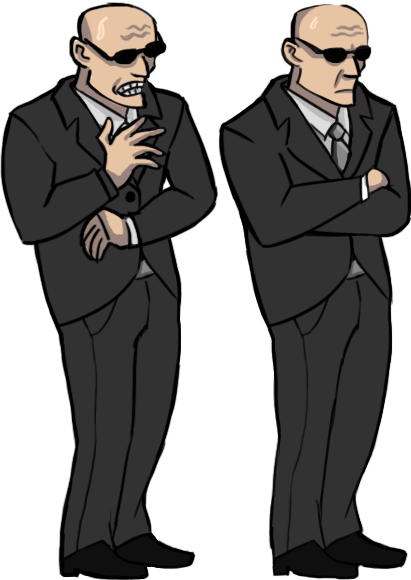
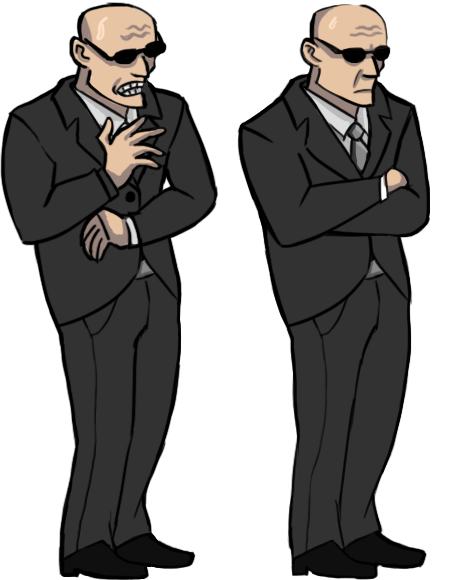
animations, agent and bigger game

diff --git a/src/js/States/game.js b/src/js/States/game.js
@@ -10,8 +10,9 @@ Game.prototype = {
     playerWon = false;
 
     this.background = game.add.sprite(0, 0, 'background');
+    this.background.scale.setTo(1280/this.background.width, 720/this.background.height);
 
-    this.eel = game.add.sprite(400, 120, 'eel');
+    this.eel = game.add.sprite(640, 120, 'eel');
     this.eel.scale.setTo(0.3, 0.3);
     this.eel.anchor.setTo(0.5, 0.5);
     this.prisonPosition = 2;
@@ -45,14 +46,10 @@ Game.prototype = {
     for (var i = 0; i <= 4; i++) {
       if (this.characters[i].name != this.guilty.name) {
         this.characters[i].sounds.pop();
+        this.characters[i].sprite.x = +640 + (i)*640 - this.prisonPosition * 640;
       }
     }
     //console.log(this.characters);
-
-    //scales
-    // this.lightBlue.scale.setTo(0.5, 0.5);
-    // this.darkBlue.scale.setTo(0.5, 0.5);
-    // this.green.scale.setTo(0.5, 0.5);
 
     //buttons
     this.shock = game.add.button(game.world.centerX, 550, 'shock', this.dealDamage, this);
@@ -90,12 +87,12 @@ Game.prototype = {
 
   update: function() {
     for(var i = 0; i <= 4; i++) {
-        this.characters[i].sprite.x = +400 + (i)*400 - this.prisonPosition * 400;
+        //this.characters[i].sprite.x = +400 + (i)*400 - this.prisonPosition * 400;
+        game.add.tween(this.characters[i].sprite).to({ x: 640 + (i)*640 - this.prisonPosition * 640 }, 50, Phaser.Easing.Linear.InOut, true, 0.1, 1000, true);
     }
-    //this.eel.x = 120 + this.prisonPosition * 140;
 
     if (this.enterKey.isDown) {
-      //game.state.start("Victory");
+      this.selectTarget();
     }
 
   },
@@ -115,6 +112,8 @@ Game.prototype = {
     //console.log(s);
     game.sound.play(s);
     console.log("deal damage to:" + this.characters[this.prisonPosition].name);
+    //this.agent.animations.play('shock', 5, false);
+    this.characters[this.prisonPosition].sprite.play('shock', 5, false);
   },
 
   shuffle : function(array) {
@@ -122,7 +121,6 @@ Game.prototype = {
     while (0 !== currentIndex) {
       randomIndex = Math.floor(Math.random() * currentIndex);
       currentIndex -= 1;
-
       temporaryValue = array[currentIndex];
       array[currentIndex] = array[randomIndex];
       array[randomIndex] = temporaryValue;

diff --git a/src/js/Objects/character.js b/src/js/Objects/character.js
@@ -1,10 +1,14 @@
 function Character(id) {
     switch(id) {
       case 0:
-        this.name = 'lightBlue';
+        this.name = 'agent';
         this.maxHealth = 10;
         this.sounds = ['a-01', 'a-02', 'a-03', 'a-04'];
-        this.sprite = game.add.sprite(-1000,-1000, 'lightBlue');
+        //this.sprite = game.add.sprite(-1000,-1000, 'lightBlue');
+        this.sprite = game.add.sprite(640, 300, 'agent');
+        this.sprite.animations.add('shock');
+        this.sprite.animations.play('shock', 1, false);
+
         break;
       case 1:
         this.name = 'darkBlue';
@@ -46,6 +50,6 @@ function Character(id) {
         console.log("ya u don fucked up");
     }
     this.health = this.maxHealth;
-    this.sprite.scale.setTo(1);
+    this.sprite.scale.setTo(0.5);
     this.sprite.anchor.setTo(0.5);
 }

diff --git a/src/js/States/loading.js b/src/js/States/loading.js
@@ -13,7 +13,7 @@ Loading.prototype = {
 
     loadImages: function () {
         // Backgrounds
-        game.load.image('background', 'content/img/backgrounds/vesitausta.png');
+        game.load.image('background', 'content/img/backgrounds/uusivesitausta.png');
         game.load.image("winscreen", "content/winscreen.png");
         game.load.image("losescreen", "content/ulose.png");
         game.load.image("menuscreen", "content/menu.png");
@@ -44,6 +44,7 @@ Loading.prototype = {
 
     loadSpritesheets: function() {
         game.load.spritesheet("playermini", "content/sprite.png", 150, 150, 3);
+        game.load.spritesheet("agent", "content/img/characters/agent01.png", 225, 580, 2);
     },
 
     loadAudio: function() {

diff --git a/src/index.html b/src/index.html
@@ -14,7 +14,7 @@
         <br />
         <br />
         <div id="content">
-            <div id="game"></div>
+            <center><div id="game"></div></center>
         </div>
     </body>
 </html>

diff --git a/src/js/main.js b/src/js/main.js
@@ -1,4 +1,4 @@
-var game = new Phaser.Game(800, 600, Phaser.AUTO, 'game');
+var game = new Phaser.Game(1280, 720, Phaser.AUTO, 'game');
 var Main = function () {};
 
 Main.prototype = {

diff --git a/src/style.css b/src/style.css
@@ -3,6 +3,8 @@ body {
 }
 
 #content {
-    margin: 0 auto;
-    max-width:800px;
+    display: block;
+    margin-left: auto;
+    margin-right: auto;
+    max-width: 1280px;
 }
